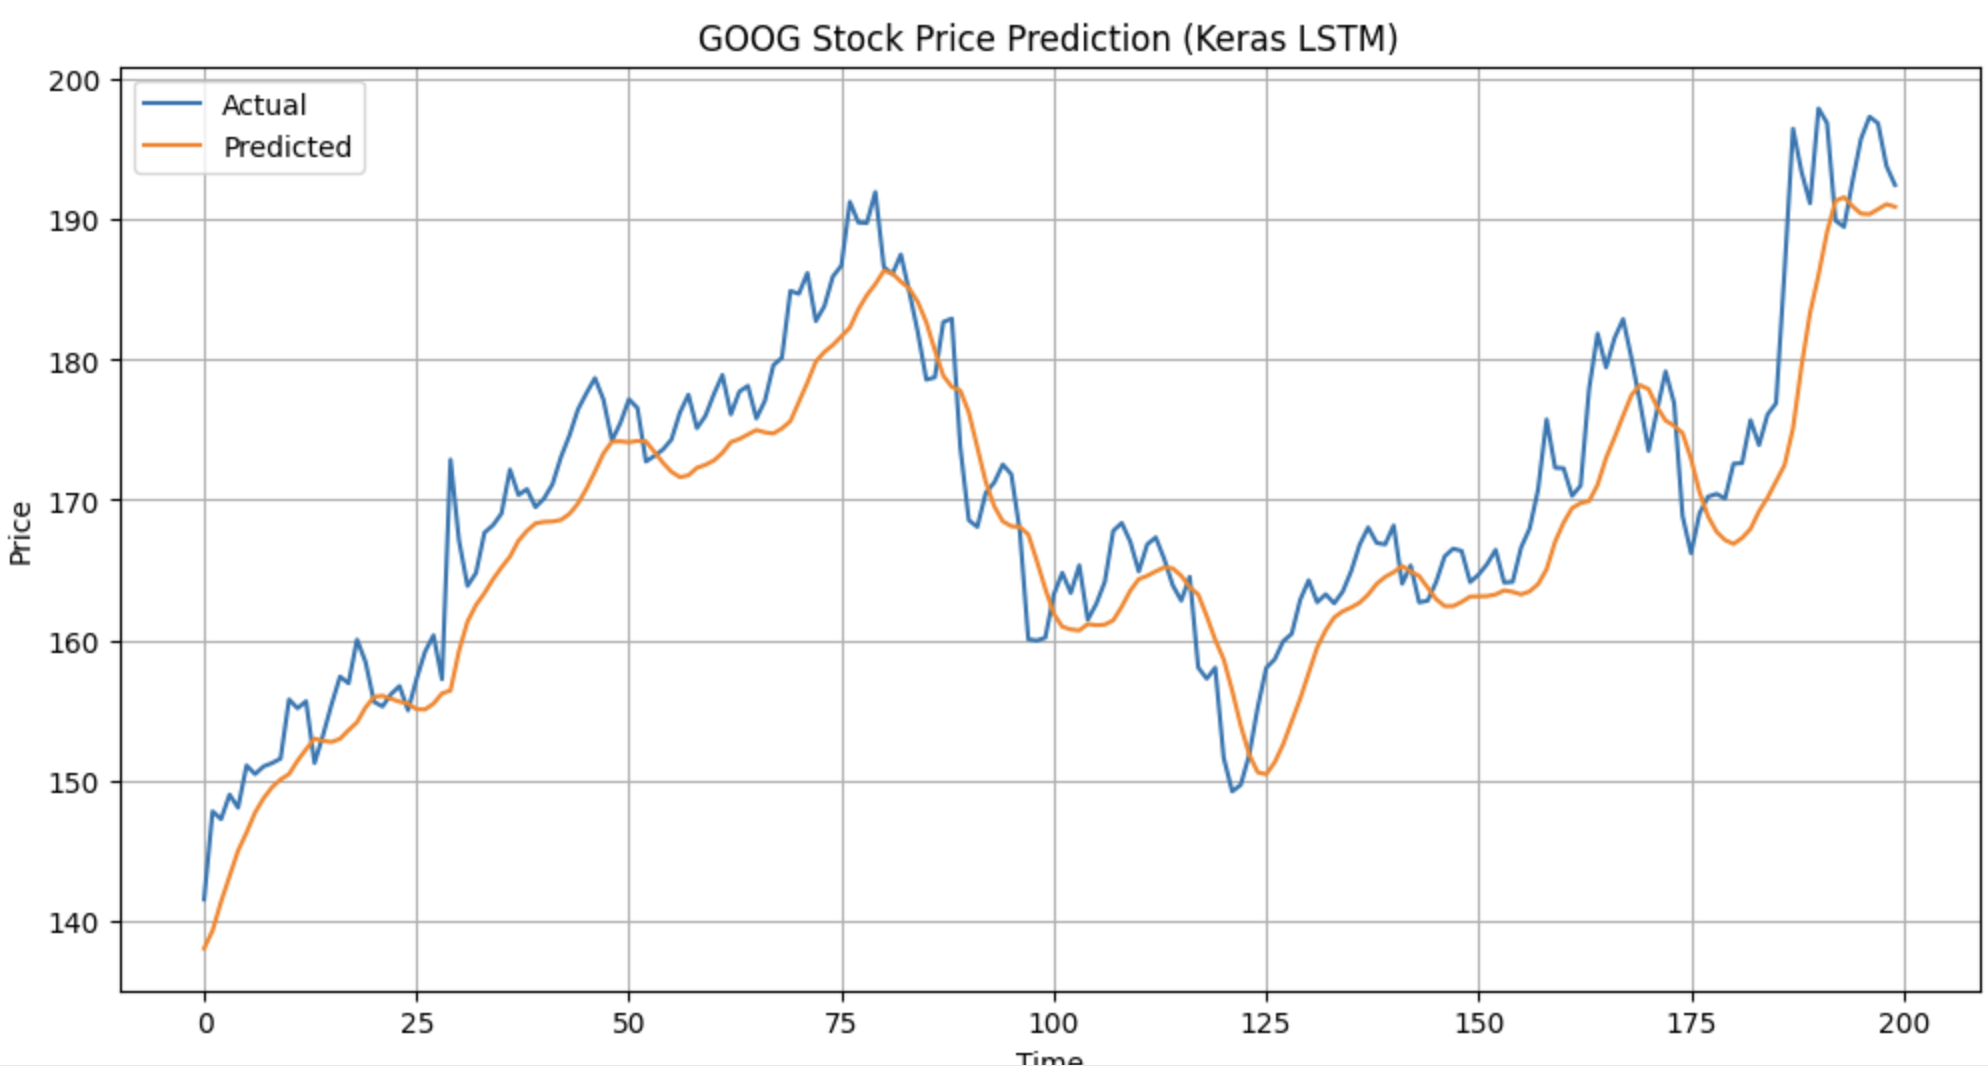
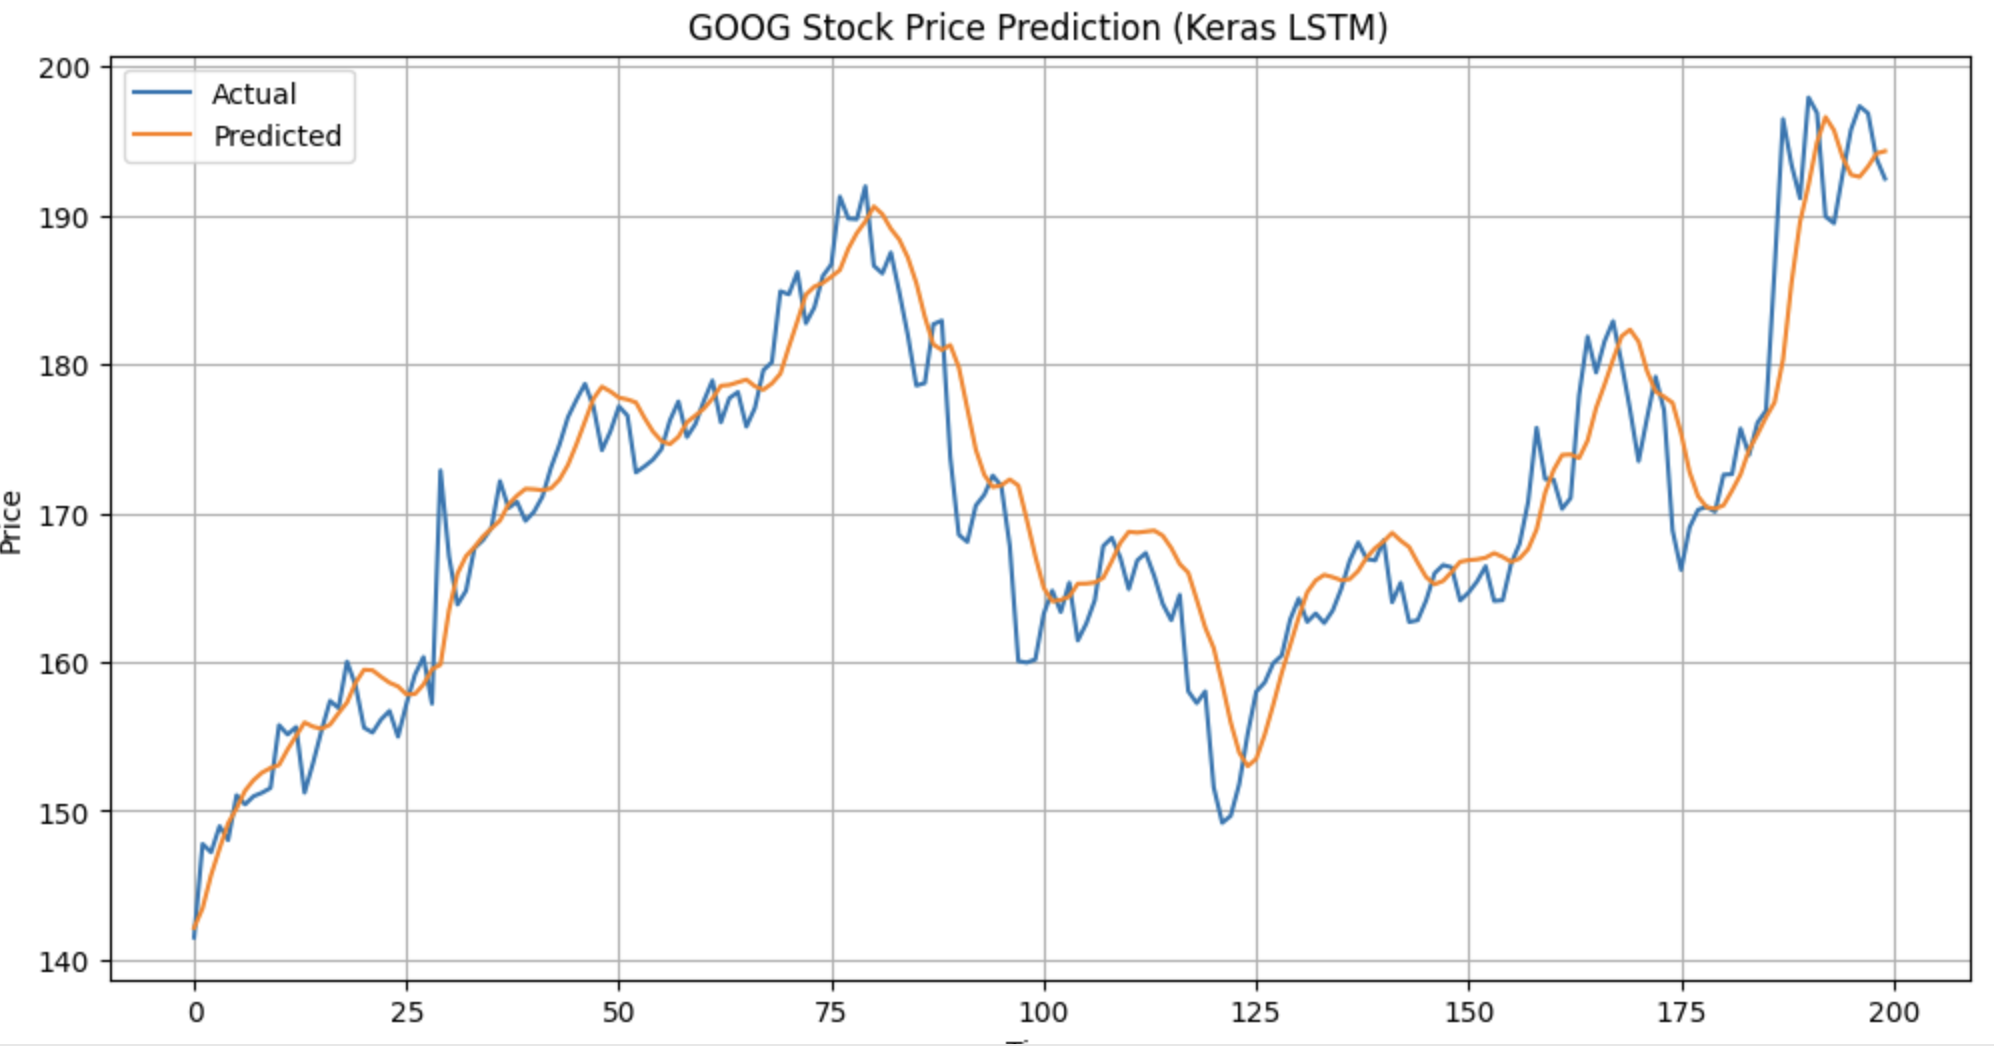
[Deep Learning] - Stock Price with future predication

diff --git a/jason-product/jason-stock/stock-price-prediccation-future-keras.py b/jason-product/jason-stock/stock-price-prediccation-future-keras.py
@@ -9,16 +9,18 @@ import matplotlib.pyplot as plt
 from sklearn.preprocessing import MinMaxScaler
 from tensorflow.keras.models import Sequential
 from tensorflow.keras.layers import LSTM, Dense
+from datetime import datetime
 
 # =======================
 # Parameters
 # =======================
 STOCK = 'GOOG'
 START = '2015-01-01'
-END = '2024-12-31'
+END = datetime.today().strftime('%Y-%m-%d')
 SEQ_LEN = 60
 EPOCHS = 50
 BATCH_SIZE = 32
+FUTURE_DAYS = 30
 
 
 # Step 3: Download stock data
@@ -58,11 +60,29 @@ predicted = model.predict(X_test)
 predicted_prices = scaler.inverse_transform(predicted)
 actual_prices = scaler.inverse_transform(y_test)
 
+# === STEP 8: Predict Future Prices ===
+last_sequence = scaled_data[-SEQ_LEN:].reshape(1, SEQ_LEN, 1)
+future_predictions = []
+
+for _ in range(FUTURE_DAYS):
+    next_pred = model.predict(last_sequence, verbose=0)[0][0]
+    future_predictions.append(next_pred)
+
+    # Append new prediction and update sequence
+    last_sequence = np.append(last_sequence[:, 1:, :], [[[next_pred]]], axis=1)
+
+# Inverse scale future predictions
+future_prices = scaler.inverse_transform(np.array(future_predictions).reshape(-1, 1))
+# Generate future dates
+last_date = df.index[-1]
+future_dates = pd.date_range(last_date + pd.Timedelta(days=1), periods=FUTURE_DAYS, freq='B')
 
 # Step 9: Plotting
 plt.figure(figsize=(14,6))
-plt.plot(actual_prices, label="Actual")
-plt.plot(predicted_prices, label="Predicted")
+plt.plot(df.index[-200:], actual_prices, label="Actual")
+plt.plot(df.index[-200:], predicted_prices, label="Predicted")
+# Plot future prediction
+plt.plot(future_dates, future_prices, label='Forecast (Future)', linestyle='dashed')
 plt.title(f"{STOCK} Stock Price Prediction (Keras LSTM)")
 plt.xlabel("Time")
 plt.ylabel("Price")

diff --git a/jason-product/jason-stock/stock-price-predication_pytorch.py b/jason-product/jason-stock/stock-price-predication_pytorch.py
@@ -12,12 +12,12 @@ import matplotlib.pyplot as plt
 # =======================
 # Parameters
 # =======================
-STOCK = 'AAPL'
+STOCK = 'GOOG'
 START = '2015-01-01'
 END = '2024-12-31'
 SEQ_LEN = 60
 EPOCHS = 50
-BATCH_SIZE = 64
+BATCH_SIZE = 32
 LR = 0.001
 
 # =======================
@@ -101,4 +101,5 @@ plt.legend()
 plt.title(f'{STOCK} Price Prediction (LSTM)')
 plt.xlabel('Days')
 plt.ylabel('Price')
+plt.grid(True)
 plt.show()

diff --git a/docs/Daily_Thinking.md b/docs/Daily_Thinking.md
@@ -81,7 +81,7 @@ TODO List - All the finished ones will be moved to separate pages.
 
 21 April 2025
 -----------
-I built 2 simple programmes to predict stock price using RNN - with TensorFlow and Pytorch seperately, amazingly simple and accurate
+I built 2 simple programmes to predict stock price using RNN - with TensorFlow and Pytorch seperately
 ![Keras Version](images/GoogleStockPricePredication_Keras.png)
 ![Pytorch Version](images/GoogleStockPricePredication_Pytorch.png)
 
